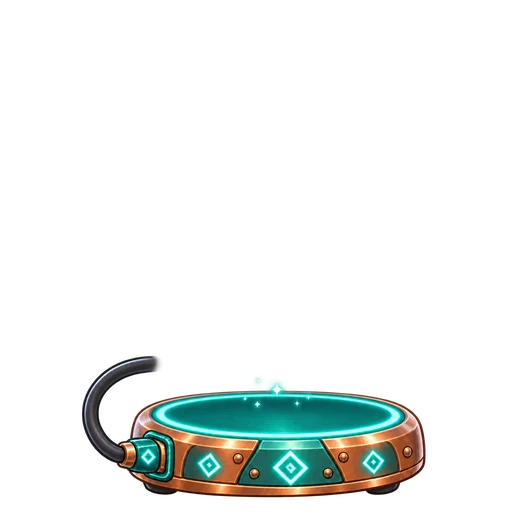
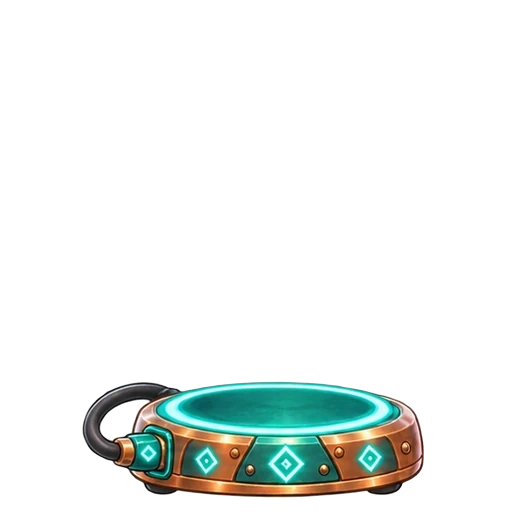
Digy: station cable no longer floats
The empty station is now cut from the pet-side frame (cable loops into the floor),
so it's identical to the station in the step frames.

Claude-Session: https://claude.ai/code/session_01PGxfpcX8yQ2dVm6AUd14bJ

Changed region(s): [[0.1562, 0.6875, 0.8438, 1.0]]

diff --git a/game.js b/game.js
@@ -21479,7 +21479,7 @@ __eocLoaded = 50;
      (3 energy), comes out dirty with a haul for your vault, cleans himself and goes back to charge.
    · Active / Resting switch and renaming on the 🐾 Pets page.
    ===================================================================== */
-var DIGY_V = "4";   // bump when a Digy picture changes (browser cache)
+var DIGY_V = "5";   // bump when a Digy picture changes (browser cache)
 var DIGY_PRICE = { diamond: 50, ruby: 10 }, DIGY_LV = 3;   // 😊 Friendly with the Kragg
 var DIGY_FRAMES = ["idle-1", "idle-2", "walk-1", "walk-2", "walk-3", "walk-4", "dig-start", "dig-1", "dig-2", "dig-deep", "emerge", "dirty",
   "clean-1", "clean-2", "clean-3", "charge-low-1", "charge-low-2", "charge-mid", "charge-full", "wake", "happy", "petted", "annoyed",

diff --git a/js/36b-digy.js b/js/36b-digy.js
@@ -7,7 +7,7 @@
      (3 energy), comes out dirty with a haul for your vault, cleans himself and goes back to charge.
    · Active / Resting switch and renaming on the 🐾 Pets page.
    ===================================================================== */
-const DIGY_V = "4";   // bump when a Digy picture changes (browser cache)
+const DIGY_V = "5";   // bump when a Digy picture changes (browser cache)
 const DIGY_PRICE = { diamond: 50, ruby: 10 }, DIGY_LV = 3;   // 😊 Friendly with the Kragg
 const DIGY_FRAMES = ["idle-1", "idle-2", "walk-1", "walk-2", "walk-3", "walk-4", "dig-start", "dig-1", "dig-2", "dig-deep", "emerge", "dirty",
   "clean-1", "clean-2", "clean-3", "charge-low-1", "charge-low-2", "charge-mid", "charge-full", "wake", "happy", "petted", "annoyed",

diff --git a/index.html b/index.html
@@ -611,6 +611,6 @@
   <div id="tipCard" hidden role="status"></div>
   <div id="tutBubble" hidden role="dialog" aria-label="Guided start"></div>
   <!-- Game code, split by section. Files share one global scope and must load in this order. -->
-  <script src="game.js?v=f3863b6b97"></script>
+  <script src="game.js?v=92feeac27b"></script>
 </body>
 </html>
